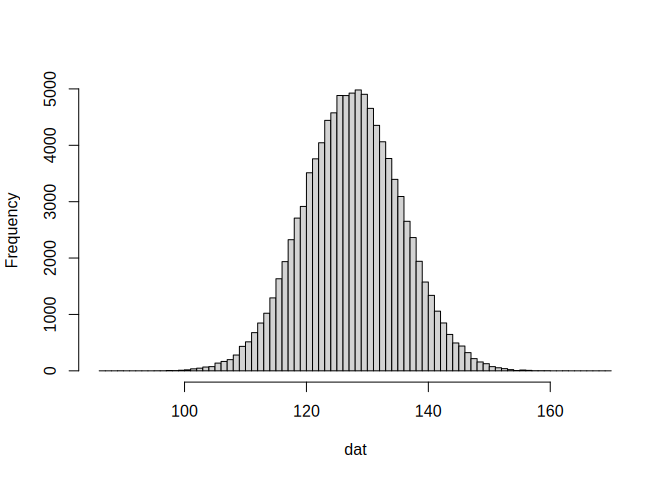
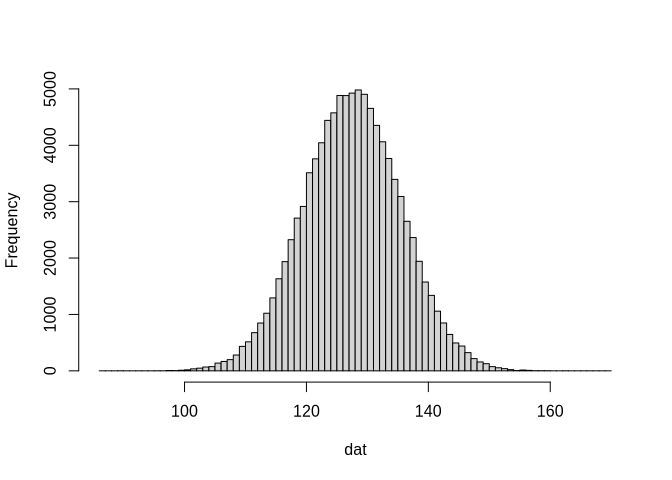
Update for 0.2.0 release.

diff --git a/README.md b/README.md
@@ -26,8 +26,8 @@ by the work of M.E. O’Neill and others
 An ironseed is a 256-bit hash digest constructed from a variable-length
 sequence of 32-bit inputs. Each ironseed consists of eight 32-bit
 sub-digests. The sub-digests are values of 32-bit multilinear hashes
-\[[4](http://arxiv.org/pdf/1202.4961)\] that accumulate entropy from the
-input sequence. Each input is included in every sub-digest. The
+\[[4](https://arxiv.org/pdf/1202.4961)\] that accumulate entropy from
+the input sequence. Each input is included in every sub-digest. The
 coefficients for the multilinear hashes are generated by a [Weyl
 sequence](https://en.wikipedia.org/wiki/Weyl_sequence).
 
@@ -66,7 +66,7 @@ to reproduce the run.
 ``` r
 #!/usr/bin/env -S Rscript --vanilla
 ironseed::ironseed("Experiment", 20251031, 1)
-#> ** Ironseed : Seed ZZaisFMror3-ZhLosGqfN3R-8B6PqHJ5hhf-CFFsWhrQvBd v0.1.0.9002
+#> ** Ironseed : Seed ZZaisFMror3-ZhLosGqfN3R-8B6PqHJ5hhf-CFFsWhrQvBd v0.2.0
 runif(10)
 #>  [1] 0.89705422 0.04560317 0.83527653 0.45908361 0.12400794 0.60115341
 #>  [7] 0.12773858 0.91012865 0.53115788 0.22756973
@@ -79,7 +79,7 @@ large study, you can also seed based on the command line arguments.
 #!/usr/bin/env -S Rscript --vanilla
 args <- commandArgs(trailingOnly = TRUE)
 ironseed::ironseed("A Simulation Script 1", args)
-#> ** Ironseed : Seed 8cqtTGB8vrS-WYjGZ3isTH2-pHzMHbEDV38-PBfFNYcUjEG v0.1.0.9002
+#> ** Ironseed : Seed 8cqtTGB8vrS-WYjGZ3isTH2-pHzMHbEDV38-PBfFNYcUjEG v0.2.0
 runif(10)
 #>  [1] 0.84992808 0.64469355 0.89756643 0.19331885 0.23951235 0.62736989
 #>  [7] 0.18903081 0.11728875 0.98641615 0.04123155
@@ -93,7 +93,7 @@ seeds. Ironseed makes this easy to accomplish.
 #!/usr/bin/env -S Rscript --vanilla
 args <- commandArgs(trailingOnly = TRUE)
 ironseed::ironseed("A Simulation Script 2", args[grepl("--seed=", args)])
-#> ** Ironseed : Seed CP5fKZWMYsB-ERVXpk3k8xd-6j18poR5Sgc-eKWXg7VJFPd v0.1.0.9002
+#> ** Ironseed : Seed CP5fKZWMYsB-ERVXpk3k8xd-6j18poR5Sgc-eKWXg7VJFPd v0.2.0
 runif(10)
 #>  [1] 0.89075876 0.48203428 0.08680504 0.51708634 0.04348393 0.50693477
 #>  [7] 0.38465350 0.64060167 0.26286422 0.54601453
@@ -108,16 +108,16 @@ occurs if no data is passed to `ironseed()`.
 ``` r
 #!/usr/bin/env -S Rscript --vanilla
 ironseed::ironseed()
-#> ** Ironseed : Seed AfaPdekUCoA-fhRoazvKnTc-EnqCD7wKNfB-2mdwgP1zuP5 v0.1.0.9002
+#> ** Ironseed : Seed 8mmJCBnfpBF-noEfDbydhD2-medoPUGW2i2-QjBush7wLiZ v0.2.0
 runif(10)
-#>  [1] 0.81606451 0.01563447 0.02842008 0.92643311 0.93597330 0.70551466
-#>  [7] 0.75512336 0.25908712 0.98250676 0.03561528
+#>  [1] 0.9647588 0.9519299 0.8189291 0.5603576 0.7317311 0.4657534 0.2285476
+#>  [8] 0.7607036 0.7591850 0.6396470
 
 # Since RNG initializing has occurred, the next call will simply
 # return the ironseed used in previous seeding.
 fe <- ironseed::ironseed()
 fe
-#> Ironseed: AfaPdekUCoA-fhRoazvKnTc-EnqCD7wKNfB-2mdwgP1zuP5
+#> Ironseed: 8mmJCBnfpBF-noEfDbydhD2-medoPUGW2i2-QjBush7wLiZ
 ```
 
 Or achieving the same thing with one call. Note that the automatically
@@ -126,12 +126,12 @@ generated seed is different from the previous run.
 ``` r
 #!/usr/bin/env -S Rscript --vanilla
 fe <- ironseed::ironseed()
-#> ** Ironseed : Seed iENGNd69yVH-ue59xcZc3fF-f4R9qYhESkd-pfWMYxMmFoM v0.1.0.9002
+#> ** Ironseed : Seed s6ADCwGZzwJ-RZ6vnLtiBGJ-eUXBjT52vq5-RipVnRwsDaC v0.2.0
 runif(10)
-#>  [1] 0.60404956 0.07975961 0.03384779 0.84441315 0.53671970 0.46416535
-#>  [7] 0.10455209 0.33560387 0.43316807 0.27369468
+#>  [1] 0.82094690 0.94750303 0.53323251 0.52446560 0.84767763 0.33846097
+#>  [7] 0.75811391 0.53731134 0.06625995 0.32167871
 fe
-#> Ironseed: iENGNd69yVH-ue59xcZc3fF-f4R9qYhESkd-pfWMYxMmFoM
+#> Ironseed: s6ADCwGZzwJ-RZ6vnLtiBGJ-eUXBjT52vq5-RipVnRwsDaC
 ```
 
 ### Reproducible Code
@@ -143,7 +143,7 @@ used, and the previously generated seed has been logged.
 ``` r
 #!/usr/bin/env -S Rscript --vanilla
 ironseed::ironseed("RW7vjwjeiHF-QG7RYPvrntR-6tGPoi65sVc-N1n5SQi5RH4")
-#> ** Ironseed : Seed RW7vjwjeiHF-QG7RYPvrntR-6tGPoi65sVc-N1n5SQi5RH4 v0.1.0.9002
+#> ** Ironseed : Seed RW7vjwjeiHF-QG7RYPvrntR-6tGPoi65sVc-N1n5SQi5RH4 v0.2.0
 runif(10)
 #>  [1] 0.05348978 0.02073685 0.08883963 0.94422739 0.36191244 0.25720998
 #>  [7] 0.61729578 0.89536005 0.86046463 0.06095049

diff --git a/cran-comments.md b/cran-comments.md
@@ -1,5 +1,10 @@
 ## Submission
 
+This is a new submission version 0.2.0 of the ironseed package. This version
+contains fixes for portability issues in 0.1.0 version, as well as new features.
+Notably the ironseed algorithm has been enhanced with additional bit mixing
+and now passes PractRand tests.
+
 ## Test Environments
 
 * Arch Linux - R 4.5.1 (Local Install)
